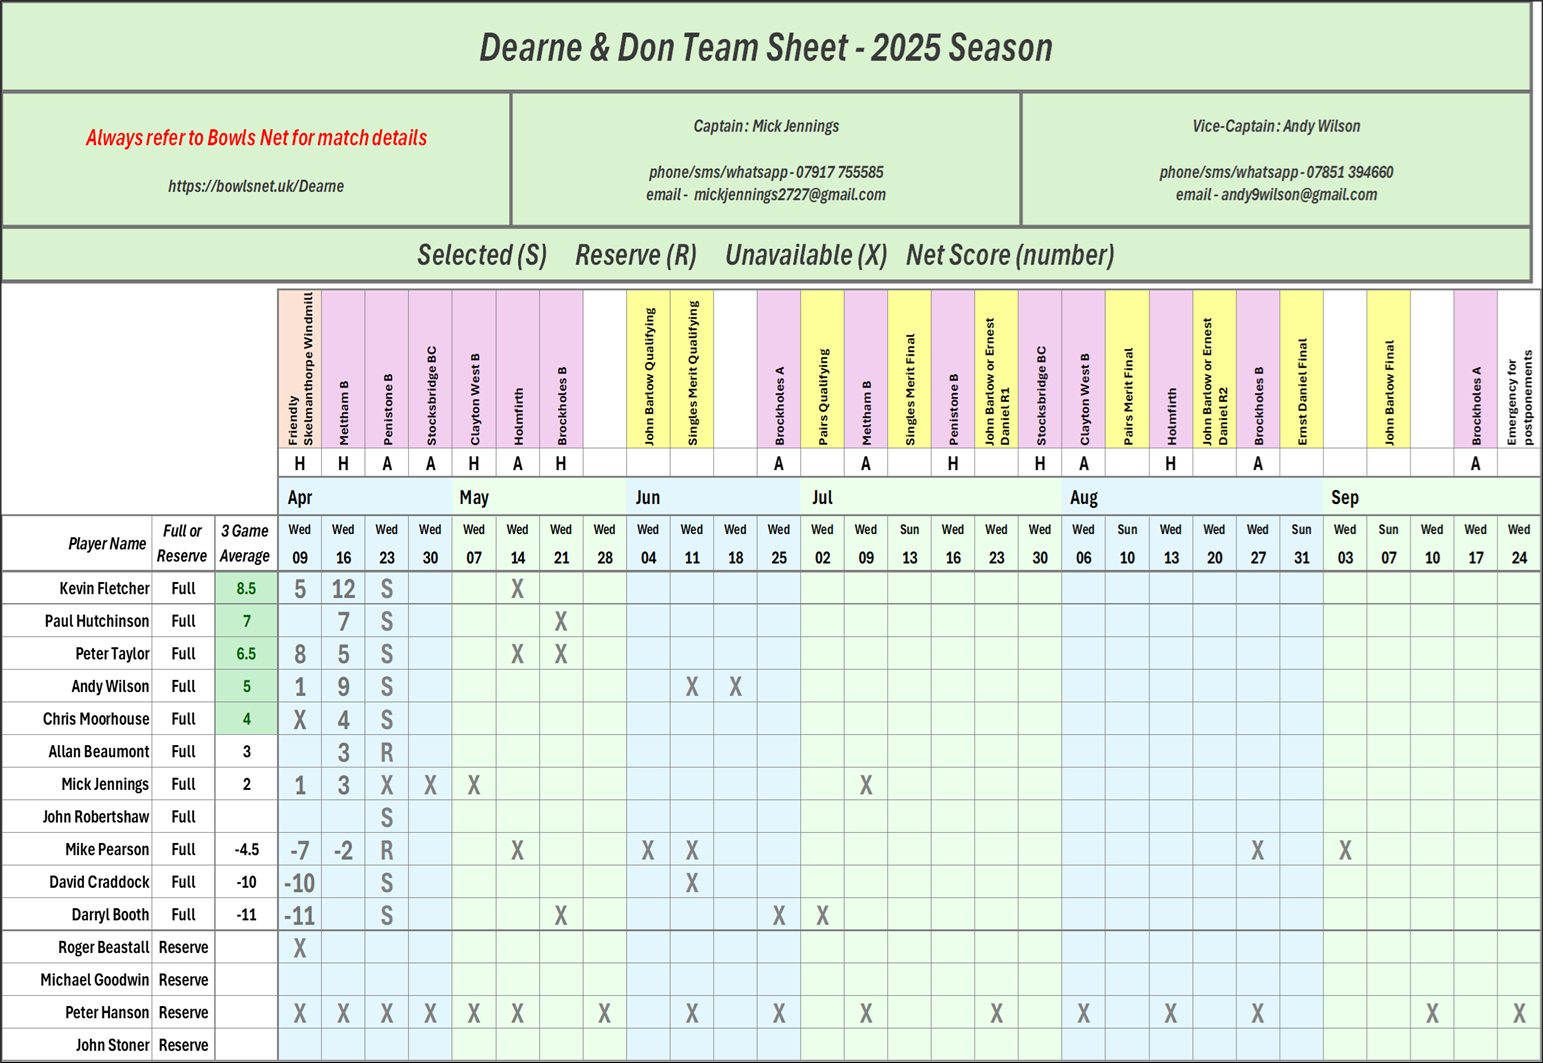
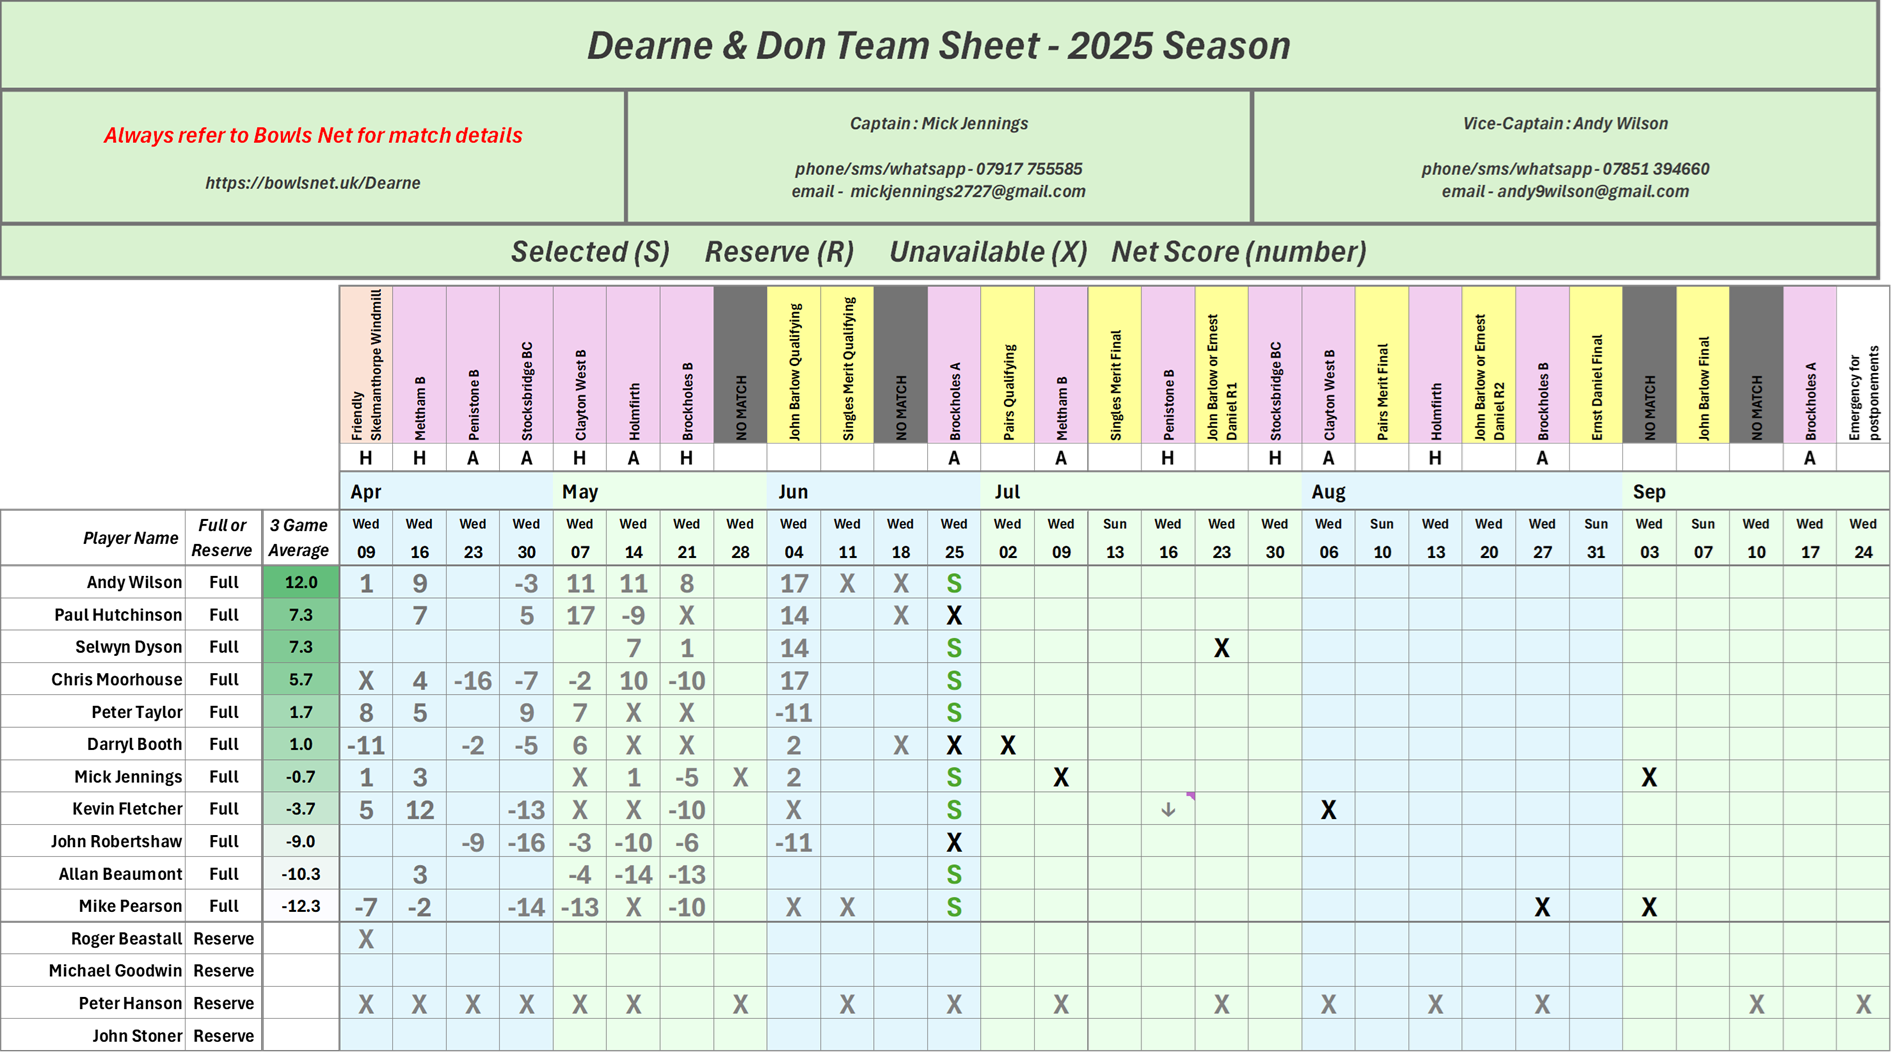
DAD Update

diff --git a/sch.htm b/sch.htm
@@ -141,159 +141,3 @@
 </body>
 
 </html>
-
-    <!-- <iframe src="https://calendar.google.com/calendar/embed
-        ?height=1000
-        &wkst=2
-        &ctz=UTC
-        &showPrint=0
-        &mode=AGENDA
-        &title=Denby%20Dale%20Bowling%20Club%20Events
-        &showTz=0
-        &showCalendars=0
-        &hl=en_GB
-        &src=ZGRiY3dlYnNpdGVAZ21haWwuY29t
-        &color=%23D81B60" 
-        style="border-width:0" width="600" height="1000" frameborder="0" scrolling="no">
-    </iframe> -->
-
-    <!-- <div id="mj1">
-
-    </div>
-
-    <script>
-        document.getElementById("mj1").innerHTML = "End of Special Events Table";
-    </script> -->
-
-<!-- <table>
-
-    <tr>
-        <th scope="col">Date</th>
-        <th scope="col">Event</th>
-    </tr>
-    <tr>
-        <td>10:00 - 12:00<br>Saturday 1st March 2025</td>
-        <td>
-            <p>Clubhouse cleaning party</p>
-            <p>☕  Free tea/coffee to all participants! ☕</p>
-            <p>
-                Any help at all will be appreciated. 
-                What else would you rather be doing on a Saturday morning ?
-            </p>
-        </td>
-    </tr>
-    <tr>
-        <td>13:00<br>Tuesday 4th March 2025</td>
-        <td>
-            <p>10-Man Vets Friendly</p>
-            <p>Home against Huddersfield Rec</p>
-        </td>
-    </tr>
-    <tr>
-        <td>13:30<br>Friday 7th March 2025</td>
-        <td>
-            <p>Barnsley Vets B Team Practice followed by Barnsley A</p>
-        </td>
-    </tr>
-    <tr>
-        <td>10:00 - 12:00<br>Saturday 8th March 2025</td>
-        <td>
-            <p>Gardening and Painting Work Group</p>
-            <p>☕  Free tea/coffee to all participants! ☕</p>
-            <p>
-                Any help at all will be appreciated. 
-                What else would you rather be doing on a Saturday morning ?
-            </p>
-        </td>
-    </tr>
-    <tr>
-        <td>13:00<br>Tuesday 11th March 2025</td>
-        <td>
-            <p>10-Man Vets Friendly</p>
-            <p>Home against Sugdens</p>
-        </td>
-    </tr>
-    <tr>
-        <td>13:30<br>Wednesday 12th March 2025</td>
-        <td>
-            <p>Ladies A & B Team Practices</p>
-        </td>
-    </tr>
-    <tr>
-        <td>13:30<br>Friday 14th March 2025</td>
-        <td>
-            <p>Barnsley Vets B Team Practice followed by Barnsley A</p>
-        </td>
-    </tr>
-    <tr>
-        <td>10:00 - 12:00<br>Saturday 15th March 2025</td>
-        <td>
-            <p>Gardening and Painting Work Group</p>
-            <p>☕  Free tea/coffee to all participants! ☕</p>
-            <p>
-                Any help at all will be appreciated. 
-                What else would you rather be doing on a Saturday morning ?
-            </p>
-        </td>
-    </tr>
-    <tr>
-        <td>13:00<br>Monday 17th March 2025</td>
-        <td>
-            <p>6-Man Vets Friendly</p>
-            <p>Home against Clayton West</p>
-        </td>
-    </tr>
-    <tr>
-        <td>13:00<br>Tuesday 18th March 2025</td>
-        <td>
-            <p>10-Man Vets Friendly</p>
-            <p>Home against Darfield Park</p>
-        </td>
-    </tr>
-    <tr>
-        <td>13:30<br>Wednesday 19th March 2025</td>
-        <td>
-            <p>Ladies A & B Team Practices</p>
-        </td>
-    </tr>
-    <tr>
-        <td>13:30<br>Friday 21st March 2025</td>
-        <td>
-            <p>Barnsley Vets B Team Practice followed by Barnsley A</p>
-        </td>
-    </tr>
-    <tr>
-        <td>13:00<br>Tuesday 25th March 2025</td>
-        <td>
-            <p>10-Man Vets Friendly</p>
-            <p>Home against Springwood</p>
-        </td>
-    </tr>
-    <tr>
-        <td>13:30<br>Wednesday 26th March 2025</td>
-        <td>
-            <p>Ladies A & B Team Practices</p>
-        </td>
-    </tr>
-    <tr>
-        <td>13:30<br>Friday 28th March 2025</td>
-        <td>
-            <p>Barnsley Vets B Team Practice followed by Barnsley A</p>
-        </td>
-    </tr>
-    <tr>
-        <td>13:00<br>Tuesday 1st April 2025</td>
-        <td>
-            <p>10-Man Vets Friendly</p>
-            <p>Away to Skelmanthorpe Windmill</p>
-        </td>
-    </tr>
-    <tr>
-        <td>18:00<br>Wednesday 9th April 2025</td>
-        <td>
-            <p>Dearne and Don Friendly</p>
-            <p>Home against Skelmanthorpe Windmill</p>
-        </td>
-    </tr>
-</table> -->
-

diff --git a/Dearne.htm b/Dearne.htm
@@ -42,9 +42,10 @@
             <h3>Team Selection Criteria</h3>
                 <p>
                     Dearne and Don matches are 8 singles games so 8 players are required per team. 
-                    Places 1 to 4 will be selected based on current form, ie the top average scores in the last 3 games.
-                    Places 5 to 8 will be rotated through the team.
+                    Available players who did not play in the last game will be rotated in.
+                    The remaining places will be filled in order based on current form (average net score from the last 3 games played).
                 </p>
+            <img src="media/DaD/Team Sheet.png" alt="DDBC Dearne and Don Team Schedule and Availability">
 
         </div>
 
